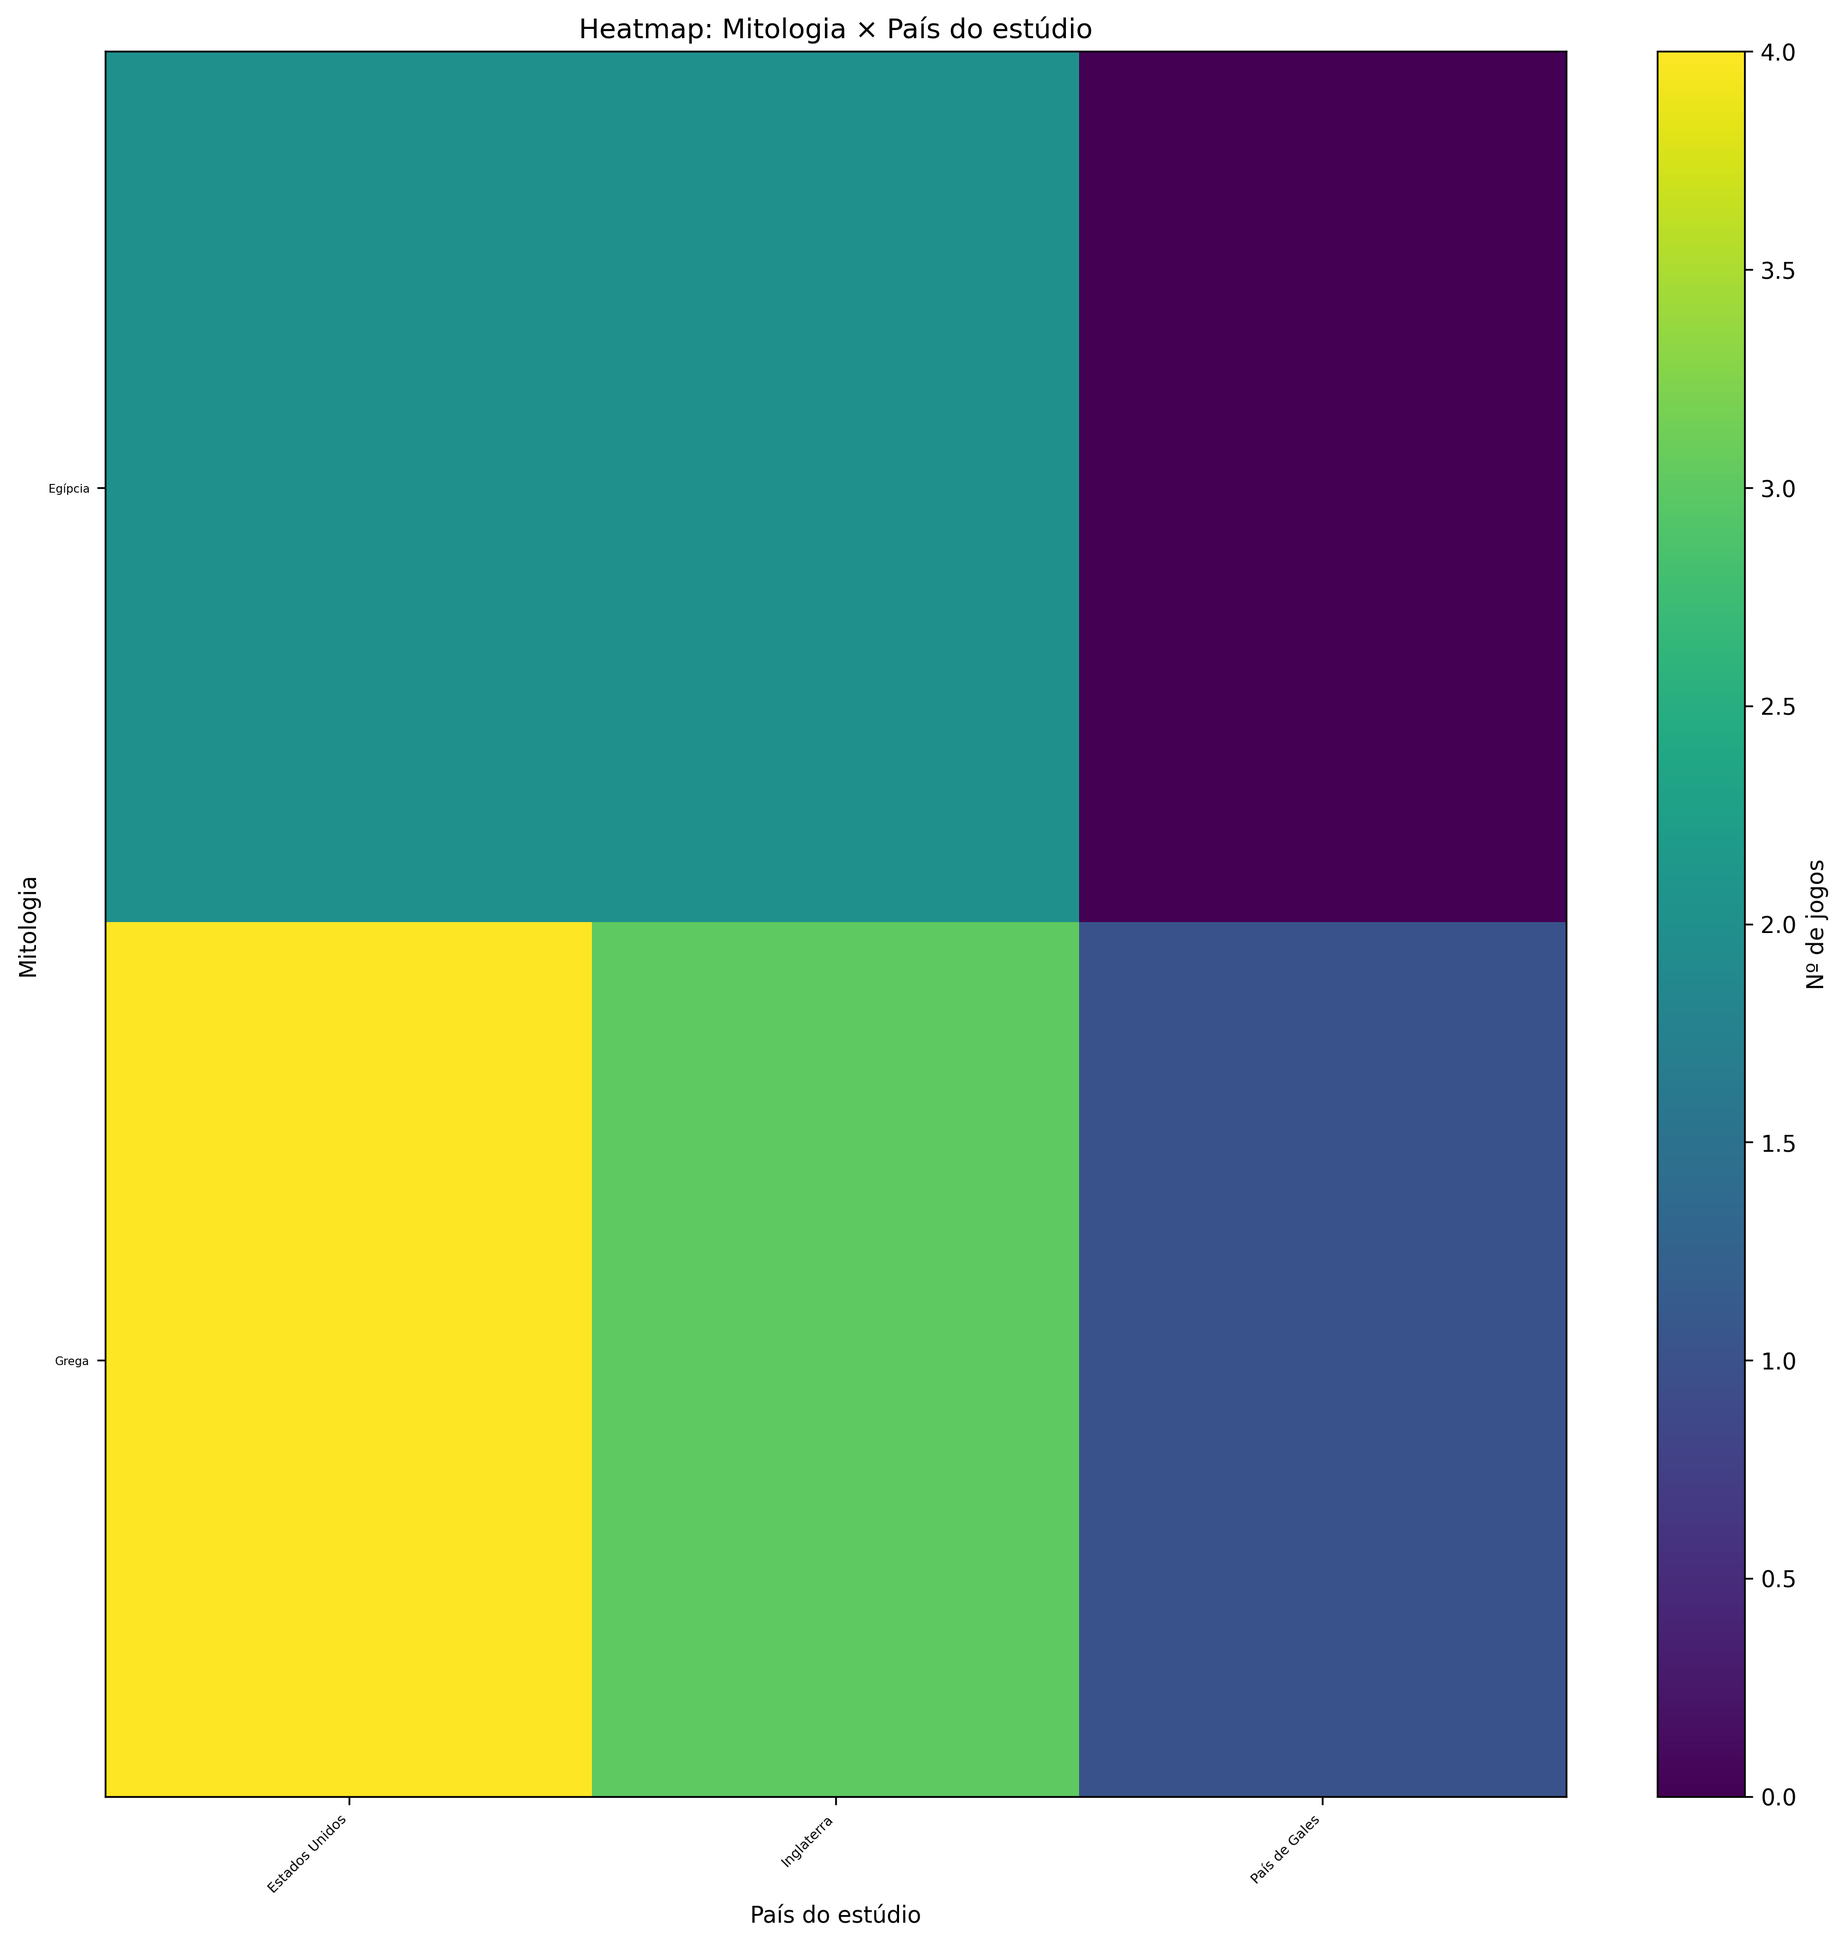
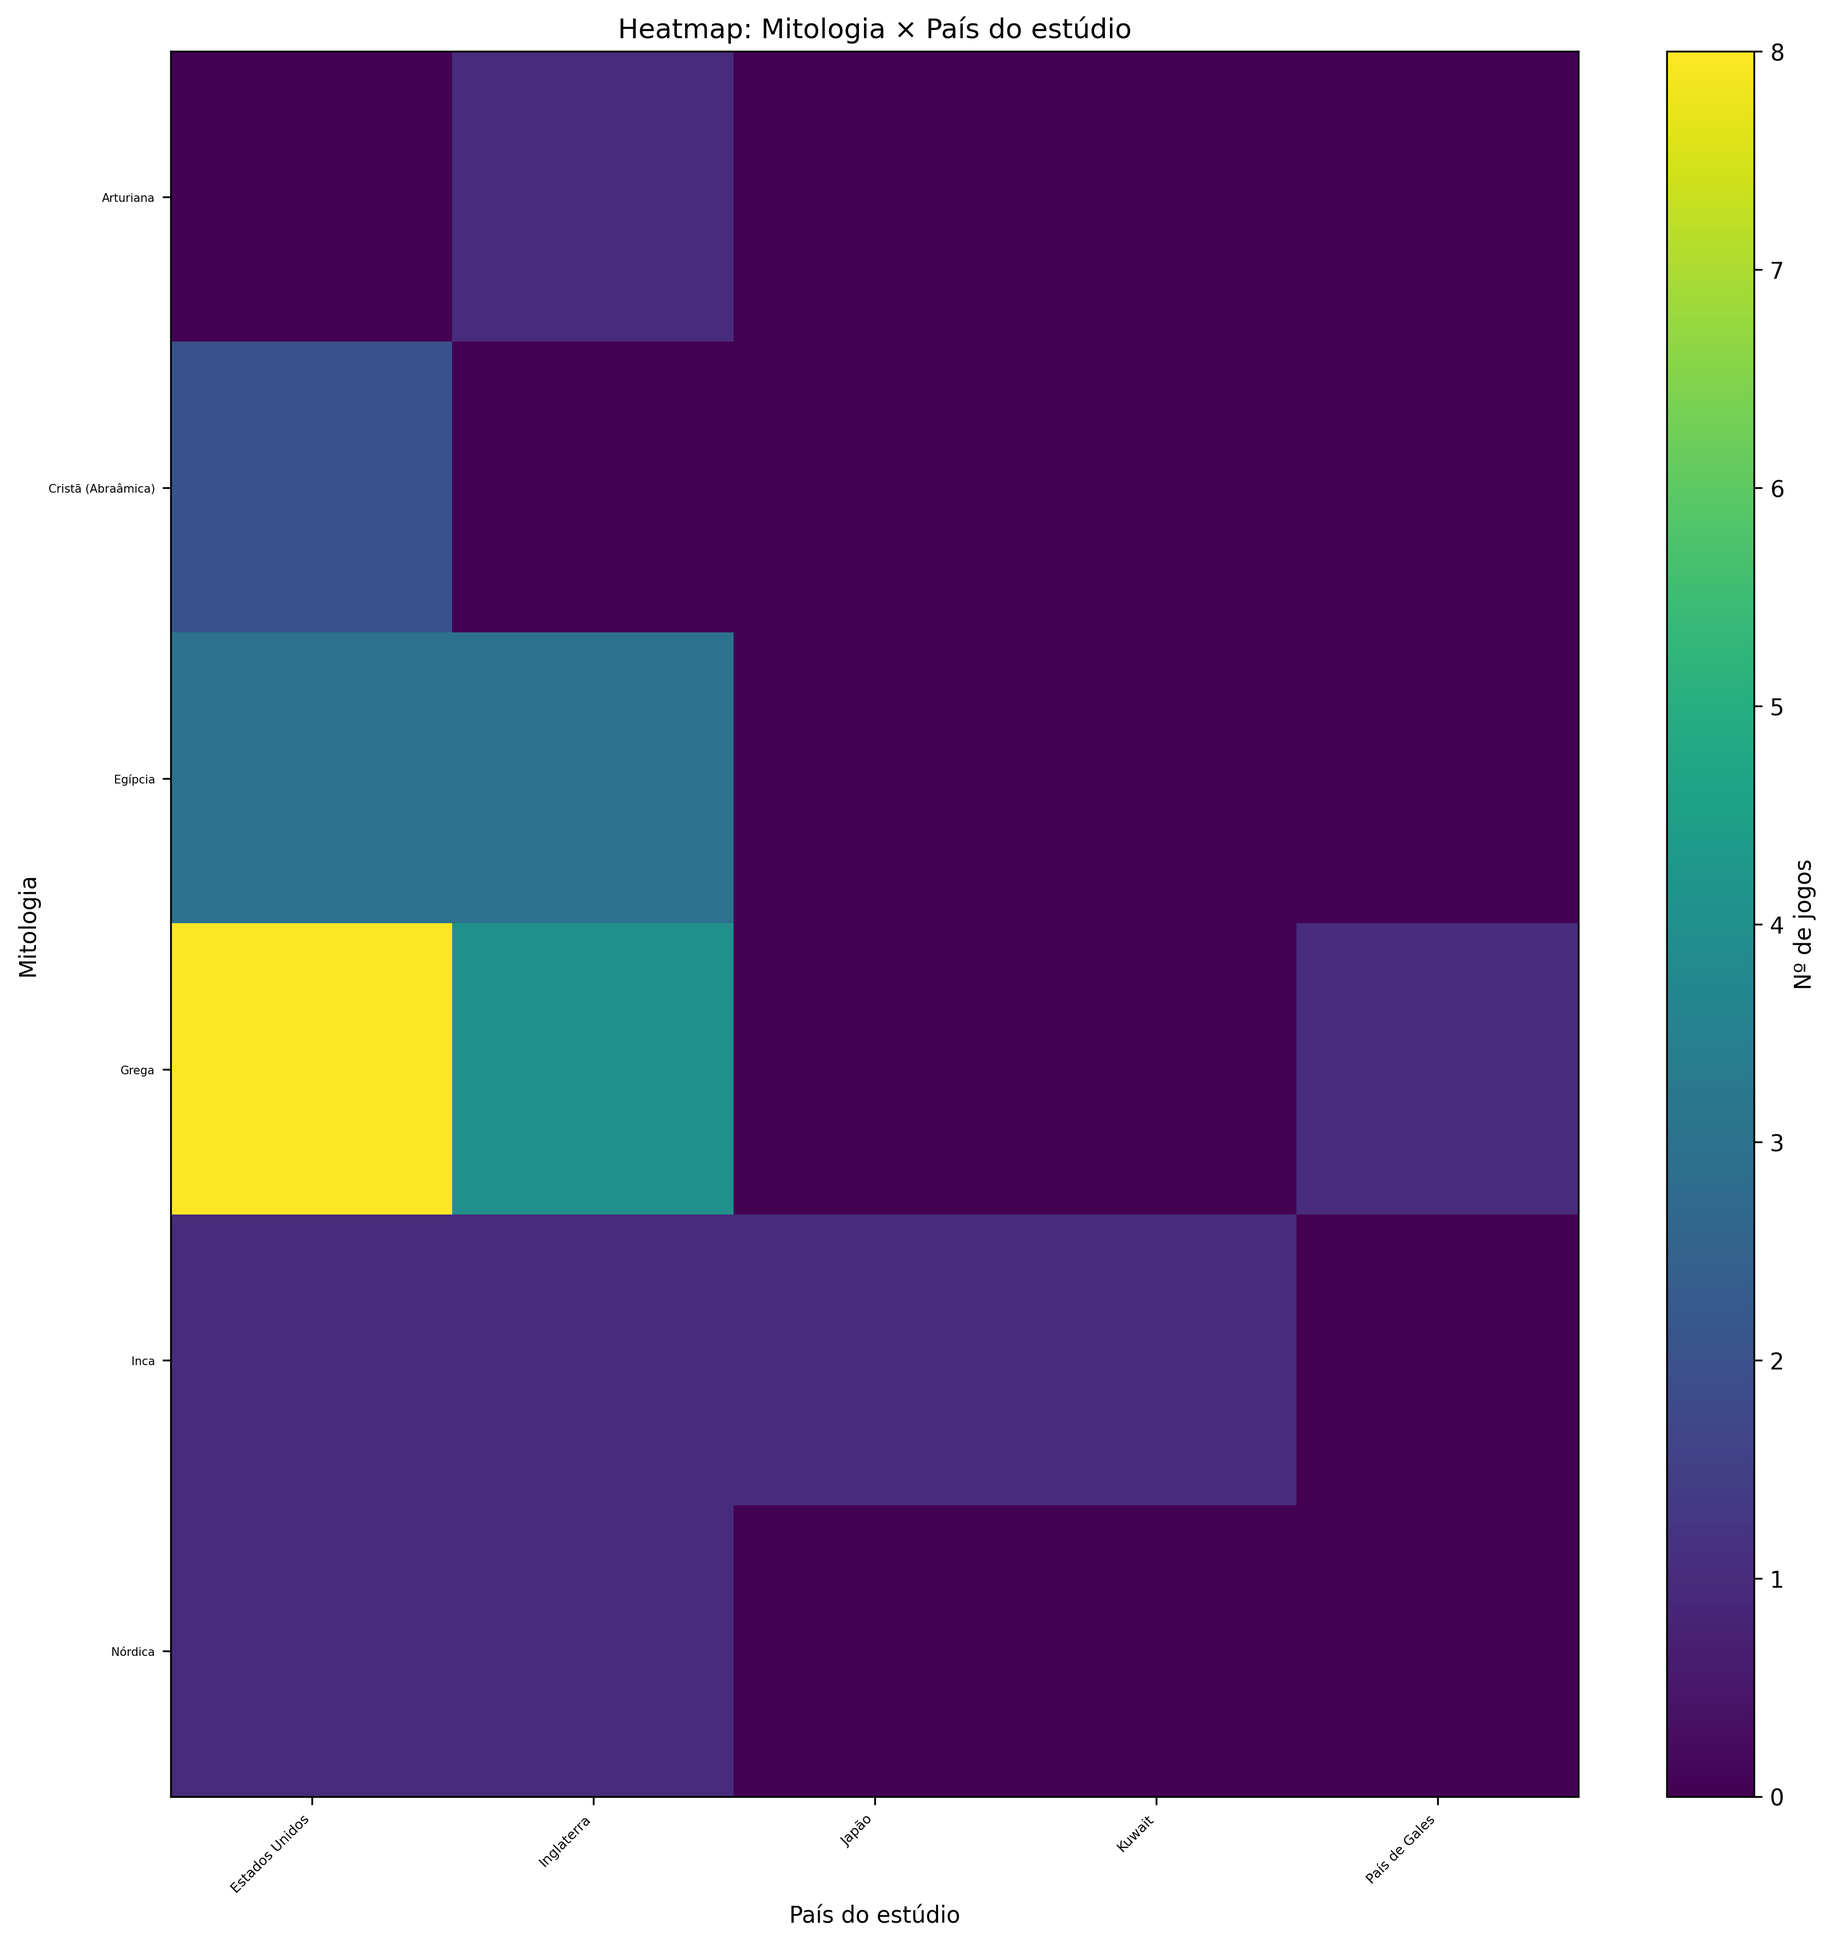
Adding 1983 games

diff --git a/generate_charts.py b/generate_charts.py
@@ -21,6 +21,16 @@ def get_conn():
     return sqlite3.connect(DB_PATH)
 
 
+def safe_myth_dir_name(name: str) -> str:
+    """
+    Cria um nome de pasta seguro a partir do nome da mitologia.
+    """
+    safe = "".join(c if c.isalnum() or c in " _-" else "_" for c in name)
+    safe = safe.strip()
+    safe = safe.replace(" ", "_")
+    return safe or "Unknown"
+
+
 # ==============================
 # GRÁFICOS GERAIS
 # ==============================
@@ -174,10 +184,9 @@ def chart_heatmap_myth_genre_primary():
     print("→ Gerado:", out_path)
 
 
-def chart_heatmap_myth_genre_secondary():
+def chart_heatmap_myth_genre_all():
     """
-    Heatmap mitologia × género SECUNDÁRIO
-    (tudo o que NÃO é principal: is_primary = 0 ou NULL).
+    Heatmap mitologia × TODOS os géneros (principal + secundários).
     """
     conn = get_conn()
 
@@ -190,14 +199,13 @@ def chart_heatmap_myth_genre_secondary():
         JOIN mythologies   m  ON gm.mythology_id = m.id
         JOIN game_genres   gg ON gm.game_id      = gg.game_id
         JOIN genres        g2 ON gg.genre_id     = g2.id
-        WHERE gg.is_primary IS NULL OR gg.is_primary = 0
         GROUP BY m.id, g2.id;
     """, conn)
 
     conn.close()
 
     if df.empty:
-        print("Sem dados para heatmap mitologia × género secundário.")
+        print("Sem dados para heatmap mitologia × todos os géneros.")
         return
 
     pivot = df.pivot(index="mythology", columns="genre", values="num_games").fillna(0)
@@ -211,14 +219,14 @@ def chart_heatmap_myth_genre_secondary():
     ax.set_yticks(range(len(pivot.index)))
     ax.set_yticklabels(pivot.index, fontsize=5)
 
-    ax.set_xlabel("Género secundário")
+    ax.set_xlabel("Género (todos)")
     ax.set_ylabel("Mitologia")
-    ax.set_title("Heatmap: Mitologia × Género secundário")
+    ax.set_title("Heatmap: Mitologia × Todos os géneros")
 
     fig.colorbar(cax, ax=ax, label="Nº de jogos")
     plt.tight_layout()
 
-    out_path = os.path.join(OUTPUT_GLOBAL, "heatmap_myth_genre_secondary.png")
+    out_path = os.path.join(OUTPUT_GLOBAL, "heatmap_myth_genre_all.png")
     plt.savefig(out_path, dpi=300, bbox_inches="tight")
     plt.close(fig)
     print("→ Gerado:", out_path)
@@ -369,7 +377,7 @@ def chart_global_platform_distribution():
 def charts_by_myth_timelines():
     """
     Linha de lançamentos por mês para cada mitologia.
-    Gera um PNG por mitologia.
+    Gera um PNG por mitologia: timeline.png dentro da pasta da mitologia.
     """
     conn = get_conn()
     cur = conn.cursor()
@@ -406,8 +414,9 @@ def charts_by_myth_timelines():
         plt.xticks(rotation=45, ha='right')
         plt.tight_layout()
 
-        safe_name = "".join(c if c.isalnum() or c in " _-" else "_" for c in myth_name)
-        out_path = os.path.join(OUTPUT_BY_MYTH, f"timeline_{myth_id}_{safe_name}.png")
+        myth_dir = os.path.join(OUTPUT_BY_MYTH, safe_myth_dir_name(myth_name))
+        os.makedirs(myth_dir, exist_ok=True)
+        out_path = os.path.join(myth_dir, "timeline.png")
         plt.savefig(out_path, dpi=200, bbox_inches="tight")
         plt.close(fig)
         print("→ Gerado:", out_path)
@@ -419,6 +428,7 @@ def charts_by_myth_genre_distribution_primary():
     """
     Para cada mitologia, gráfico de barras com distribuição de géneros
     PRINCIPAIS (gg.is_primary = 1).
+    Guarda em <Mitologia>/genres_primary.png
     """
     conn = get_conn()
 
@@ -456,17 +466,19 @@ def charts_by_myth_genre_distribution_primary():
         plt.xticks(rotation=45, ha='right')
         plt.tight_layout()
 
-        safe_name = "".join(c if c.isalnum() or c in " _-" else "_" for c in myth_name)
-        out_path = os.path.join(OUTPUT_BY_MYTH, f"genres_primary_{myth_id}_{safe_name}.png")
+        myth_dir = os.path.join(OUTPUT_BY_MYTH, safe_myth_dir_name(myth_name))
+        os.makedirs(myth_dir, exist_ok=True)
+        out_path = os.path.join(myth_dir, "genres_primary.png")
         plt.savefig(out_path, dpi=200, bbox_inches="tight")
         plt.close(fig)
         print("→ Gerado:", out_path)
 
 
-def charts_by_myth_genre_distribution_secondary():
+def charts_by_myth_genre_distribution_all():
     """
-    Para cada mitologia, gráfico de barras com distribuição de géneros
-    SECUNDÁRIOS (gg.is_primary = 0 ou NULL).
+    Para cada mitologia, gráfico de barras com distribuição de TODOS os géneros
+    (principal + secundários).
+    Guarda em <Mitologia>/genres_all.png
     """
     conn = get_conn()
 
@@ -480,14 +492,13 @@ def charts_by_myth_genre_distribution_secondary():
         JOIN mythologies m ON gm.mythology_id = m.id
         JOIN game_genres gg ON gm.game_id     = gg.game_id
         JOIN genres g2      ON gg.genre_id    = g2.id
-        WHERE gg.is_primary IS NULL OR gg.is_primary = 0
         GROUP BY m.id, g2.id;
     """, conn)
 
     conn.close()
 
     if df.empty:
-        print("Sem dados para distribuição de géneros secundários por mitologia.")
+        print("Sem dados para distribuição de todos os géneros por mitologia.")
         return
 
     for myth_id, group in df.groupby("myth_id"):
@@ -497,15 +508,16 @@ def charts_by_myth_genre_distribution_secondary():
 
         fig, ax = plt.subplots(figsize=(8, 4))
         ax.bar(genres, counts)
-        ax.set_title(f"Géneros secundários – {myth_name}")
+        ax.set_title(f"Todos os géneros – {myth_name}")
         ax.set_xlabel("Género")
         ax.set_ylabel("Nº de jogos")
 
         plt.xticks(rotation=45, ha='right')
         plt.tight_layout()
 
-        safe_name = "".join(c if c.isalnum() or c in " _-" else "_" for c in myth_name)
-        out_path = os.path.join(OUTPUT_BY_MYTH, f"genres_secondary_{myth_id}_{safe_name}.png")
+        myth_dir = os.path.join(OUTPUT_BY_MYTH, safe_myth_dir_name(myth_name))
+        os.makedirs(myth_dir, exist_ok=True)
+        out_path = os.path.join(myth_dir, "genres_all.png")
         plt.savefig(out_path, dpi=200, bbox_inches="tight")
         plt.close(fig)
         print("→ Gerado:", out_path)
@@ -513,10 +525,31 @@ def charts_by_myth_genre_distribution_secondary():
 
 # ----- Interno vs Externo: helpers -----
 
-def _charts_by_myth_internal_external_base(role_filter, label_suffix, filename_prefix):
+def _split_region_countries(region_str: str):
+    """
+    Converte uma string tipo:
+      'Noruega, Suécia, Dinamarca, Islândia'
+    num set: {'noruega', 'suécia', 'dinamarca', 'islândia'}
+    Aceita separadores: vírgula, ponto e vírgula, barra, pipe.
+    """
+    if region_str is None:
+        return set()
+    txt = str(region_str).lower()
+    for sep in [';', '/', '|']:
+        txt = txt.replace(sep, ',')
+    parts = [p.strip() for p in txt.split(',')]
+    return {p for p in parts if p}
+
+
+def _charts_by_myth_internal_external_base(role_filter, label_suffix, filename_suffix):
     """
     Gera gráficos Interno vs Externo por mitologia, a contar Nº de ESTÚDIOS,
     com filtro opcional por role (Developer / Publisher / None para todos).
+
+    Suporta mitologias com vários países na coluna mythologies.region:
+    ex: 'Noruega, Suécia, Dinamarca, Islândia'.
+
+    Guarda em <Mitologia>/<filename_suffix>.png
     """
     conn = get_conn()
 
@@ -557,10 +590,10 @@ def _charts_by_myth_internal_external_base(role_filter, label_suffix, filename_p
         if country_name is None or str(country_name).strip() == "":
             continue
 
-        myth_norm = str(myth_region).strip().lower()
+        myth_countries = _split_region_countries(myth_region)
         country_norm = str(country_name).strip().lower()
 
-        origin_type = "Interno" if myth_norm == country_norm else "Externo"
+        origin_type = "Interno" if country_norm in myth_countries else "Externo"
 
         records.append({
             "myth_id": row["myth_id"],
@@ -593,8 +626,9 @@ def _charts_by_myth_internal_external_base(role_filter, label_suffix, filename_p
         ax.set_ylabel("Nº de estúdios")
 
         plt.tight_layout()
-        safe_name = "".join(c if c.isalnum() or c in " _-" else "_" for c in myth_name)
-        out_path = os.path.join(OUTPUT_BY_MYTH, f"{filename_prefix}_{myth_id}_{safe_name}.png")
+        myth_dir = os.path.join(OUTPUT_BY_MYTH, safe_myth_dir_name(myth_name))
+        os.makedirs(myth_dir, exist_ok=True)
+        out_path = os.path.join(myth_dir, filename_suffix + ".png")
         plt.savefig(out_path, dpi=200, bbox_inches="tight")
         plt.close(fig)
         print("→ Gerado:", out_path)
@@ -603,33 +637,36 @@ def _charts_by_myth_internal_external_base(role_filter, label_suffix, filename_p
 def charts_by_myth_internal_external_all():
     """
     Interno vs Externo – TODOS os estúdios (qualquer role).
+    Guarda em <Mitologia>/internal_external_all.png
     """
     _charts_by_myth_internal_external_base(
         role_filter=None,
         label_suffix="todos os estúdios",
-        filename_prefix="internal_external_all"
+        filename_suffix="internal_external_all"
     )
 
 
 def charts_by_myth_internal_external_devs():
     """
     Interno vs Externo – só Developers (assume gs.role = 'Developer').
+    Guarda em <Mitologia>/internal_external_devs.png
     """
     _charts_by_myth_internal_external_base(
         role_filter="Developer",
         label_suffix="Developers",
-        filename_prefix="internal_external_devs"
+        filename_suffix="internal_external_devs"
     )
 
 
 def charts_by_myth_internal_external_pubs():
     """
     Interno vs Externo – só Publishers (assume gs.role = 'Publisher').
+    Guarda em <Mitologia>/internal_external_pubs.png
     """
     _charts_by_myth_internal_external_base(
         role_filter="Publisher",
         label_suffix="Publishers",
-        filename_prefix="internal_external_pubs"
+        filename_suffix="internal_external_pubs"
     )
 
 
@@ -637,6 +674,7 @@ def charts_by_myth_platform_distribution():
     """
     Para cada mitologia, gráfico de barras com distribuição de plataformas
     (em que plataformas aparecem os jogos dessa mitologia).
+    Guarda em <Mitologia>/platforms.png
     """
     conn = get_conn()
 
@@ -673,8 +711,9 @@ def charts_by_myth_platform_distribution():
         plt.xticks(rotation=45, ha='right')
         plt.tight_layout()
 
-        safe_name = "".join(c if c.isalnum() or c in " _-" else "_" for c in myth_name)
-        out_path = os.path.join(OUTPUT_BY_MYTH, f"platforms_{myth_id}_{safe_name}.png")
+        myth_dir = os.path.join(OUTPUT_BY_MYTH, safe_myth_dir_name(myth_name))
+        os.makedirs(myth_dir, exist_ok=True)
+        out_path = os.path.join(myth_dir, "platforms.png")
         plt.savefig(out_path, dpi=200, bbox_inches="tight")
         plt.close(fig)
         print("→ Gerado:", out_path)
@@ -689,7 +728,7 @@ def main():
     chart_global_myth_distribution()
     chart_global_releases_per_month()
     chart_heatmap_myth_genre_primary()
-    chart_heatmap_myth_genre_secondary()
+    chart_heatmap_myth_genre_all()
     chart_heatmap_myth_country()
     chart_games_by_myth_count()
     chart_global_platform_distribution()
@@ -697,7 +736,7 @@ def main():
     # POR MITOLOGIA
     charts_by_myth_timelines()
     charts_by_myth_genre_distribution_primary()
-    charts_by_myth_genre_distribution_secondary()
+    charts_by_myth_genre_distribution_all()
     charts_by_myth_internal_external_all()
     charts_by_myth_internal_external_devs()
     charts_by_myth_internal_external_pubs()

diff --git a/admin/pages/edit_game.php b/admin/pages/edit_game.php
@@ -541,29 +541,17 @@ if ($_SERVER['REQUEST_METHOD'] === 'POST' && $action !== 'save_all') {
                 </table>
             <?php endif; ?>
 
-            <h4>Novo estúdio como Developer</h4>
+            <h4>Novo estúdio</h4>
             <label>
                 Nome:<br>
                 <input type="text" name="new_dev_name">
             </label>
             <br>
             <label>
-                País (ex: PT, US, JP):<br>
+                País:<br>
                 <input type="text" name="new_dev_country" maxlength="100">
             </label>
             <button type="submit" name="action" value="add_dev">Criar estúdio Dev</button>
-
-            <h4>Novo estúdio como Publisher</h4>
-            <label>
-                Nome:<br>
-                <input type="text" name="new_pub_name">
-            </label>
-            <br>
-            <label>
-                País (ex: PT, US, JP):<br>
-                <input type="text" name="new_pub_country" maxlength="100">
-            </label>
-            <button type="submit" name="action" value="add_pub">Criar estúdio Pub</button>
         </fieldset>
 
         <br>
